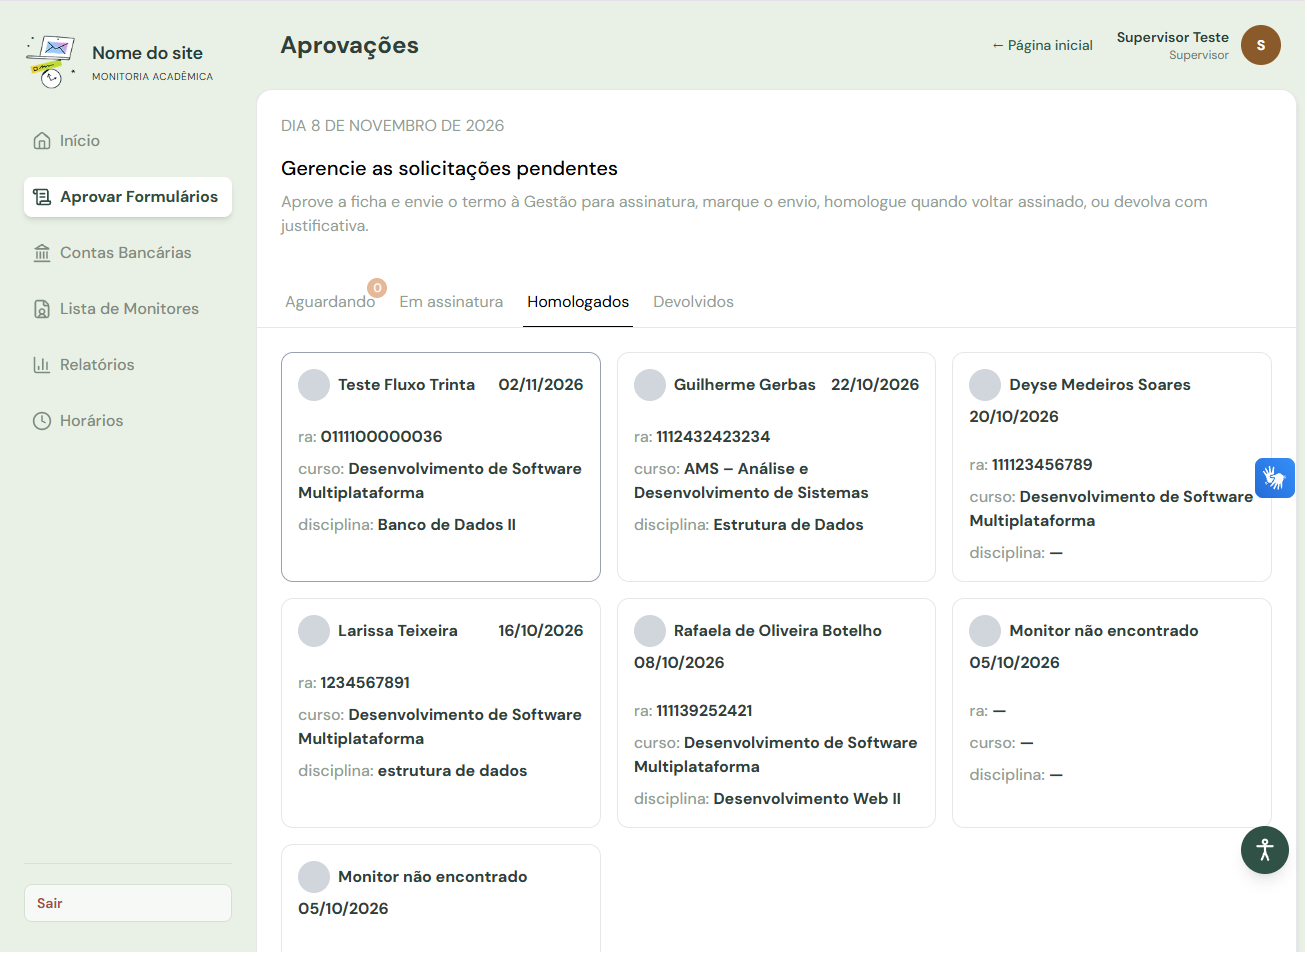
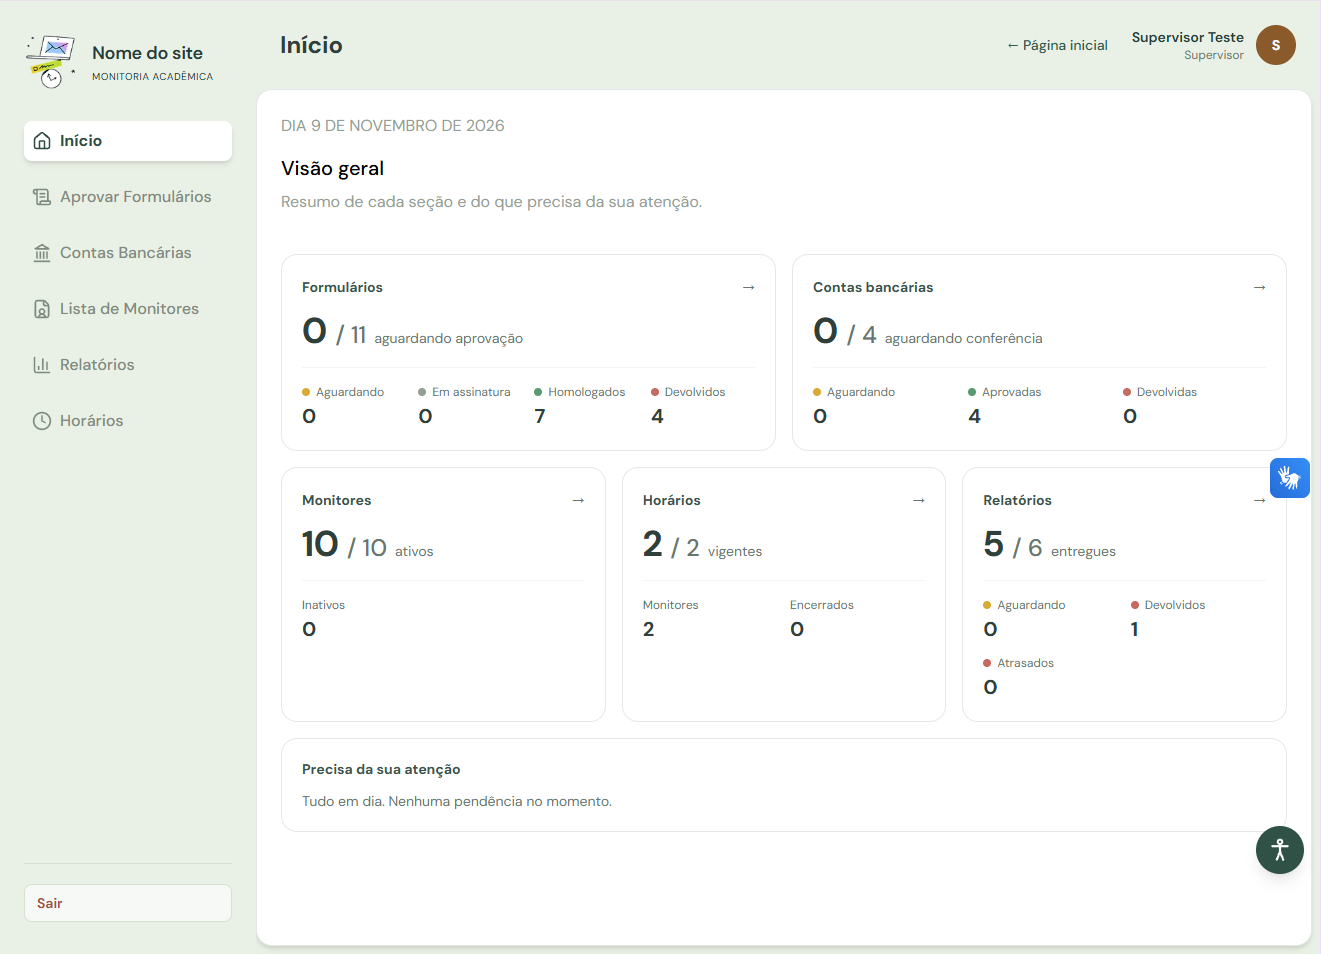
fix: ajustes na página de projetos e adiciona informações no portifólio

diff --git a/src/data/portfolio.ts b/src/data/portfolio.ts
@@ -36,7 +36,7 @@ export const skills = [
   },
   {
     title: "Ferramentas",
-    items: ["Git", "Insomnia", "Figma", "Canva", "Notion", "Monday"],
+    items: ["Git", "Insomnia", "Figma", "Monday"],
   },
 ];
 
@@ -45,23 +45,22 @@ export const stack = skills.flatMap((group) => group.items);
 // Ícones da faixa roxa do início. Salve os arquivos em public/images/tech/ e
 // preencha o caminho, por exemplo HTML: "/images/tech/html.svg".
 // Enquanto estiver vazio, a faixa mostra o nome da tecnologia.
+const pathIcons = "/images/tech"
 export const techIcons: Record<string, string> = {
-  HTML: "",
-  CSS: "",
-  JavaScript: "",
-  TypeScript: "",
-  React: "",
-  "Next.js": "",
-  "Tailwind CSS": "",
-  "Node.js": "",
-  Java: "",
-  MongoDB: "",
-  Git: "",
-  Insomnia: "",
-  Figma: "",
-  Canva: "",
-  Notion: "",
-  Monday: "",
+  HTML: `${pathIcons}/html.png`,
+  CSS: `${pathIcons}/css-3.png`,
+  JavaScript: `${pathIcons}/js.png`,
+  TypeScript: `${pathIcons}/typescript.png`,
+  React: `${pathIcons}/react.png`,
+  "Next.js": `${pathIcons}/next.png`,
+  "Tailwind CSS": `${pathIcons}/tailwind.svg`,
+  "Node.js": `${pathIcons}/node.png`,
+  Java: `${pathIcons}/java.webp`,
+  MongoDB: `${pathIcons}/mongodb.png`,
+  Git: `${pathIcons}/github.png`,
+  Insomnia: `${pathIcons}/insomnia.png`,
+  Figma: `${pathIcons}/figma.png`,
+  Monday: `${pathIcons}/monday.svg`,
 };
 
 export const services = [
@@ -117,6 +116,7 @@ export type Project = {
 };
 
 // TODO: complete "developed", "images", "repo" e "live" de cada projeto
+const initialPath = "/images/projetos"
 export const projects: Project[] = [
   {
     slug: "monitoria-academica",
@@ -132,8 +132,24 @@ export const projects: Project[] = [
     ],
     images: [
       {
-        src: "",
-        alt: ""
+        src: `${initialPath}/monitoria-academica/home.png`,
+        alt: "Página inicial do primeiro projeto"
+      },
+      {
+        src: `${initialPath}/monitoria-academica/supervisorHome.png`,
+        alt: "Página do Supervisor (dashboard)"
+      },
+      {
+        src: `${initialPath}/monitoria-academica/aprovarForms.png`,
+        alt: "Seção de Aprovar Formulários"
+      },
+      {
+        src: `${initialPath}/monitoria-academica/detalhesForms.png`,
+        alt: "Detalhes dos formulários"
+      },
+      {
+        src: `${initialPath}/monitoria-academica/listaMonitores.png`,
+        alt: "Seção dos Monitores"
       }
     ],
   },
@@ -173,13 +189,13 @@ export const projects: Project[] = [
 
 // TODO: troque pela sua trajetória real
 export const experience = [
-  {
-    role: "Em busca de estágio",
-    company: "Desenvolvimento de software",
-    period: "Agora",
-    description:
-      "Procurando um estágio na área para seguir evoluindo e contribuir com um time. Se a sua empresa tem uma vaga, vamos conversar!",
-  },
+  // {
+  //   role: "Em busca de estágio",
+  //   company: "Desenvolvimento de software",
+  //   period: "Agora",
+  //   description:
+  //     "Procurando um estágio na área para seguir evoluindo e contribuir com um time. Se a sua empresa tem uma vaga, vamos conversar!",
+  // },
   {
     role: "Estágio em Desenvolvimento",
     company: "Serie A",

diff --git a/src/app/projetos/[slug]/page.tsx b/src/app/projetos/[slug]/page.tsx
@@ -100,7 +100,7 @@ export default async function ProjectPage({
         </header>
 
         <BlurFade delay={0.35} offset={30} direction="up">
-          <div className="relative mt-12 aspect-[16/10] overflow-hidden rounded-3xl">
+          <div className="relative mt-12 aspect-[16/10] overflow-hidden rounded-3xl rounded-3xl border border-border p-2">
             <ProjectCover
               project={project}
               sizes="(max-width: 1024px) 100vw, 976px"

diff --git a/src/components/sections/Skills.tsx b/src/components/sections/Skills.tsx
@@ -20,7 +20,7 @@ export default function Skills() {
               title={item}
               width={40}
               height={40}
-              className="size-9 object-contain brightness-0 invert md:size-10 dark:invert-0"
+              className="size-9 object-contain md:size-10 "
             />
           ) : (
             <span
